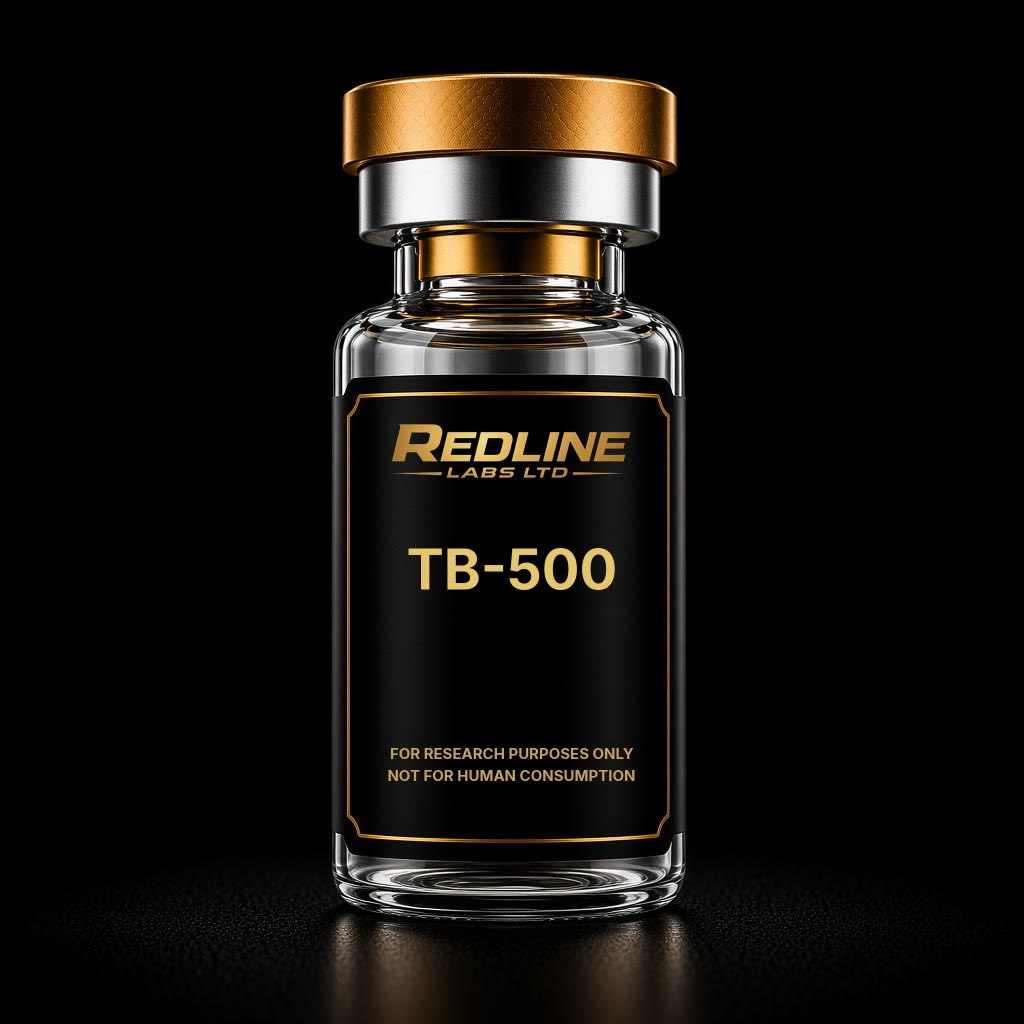
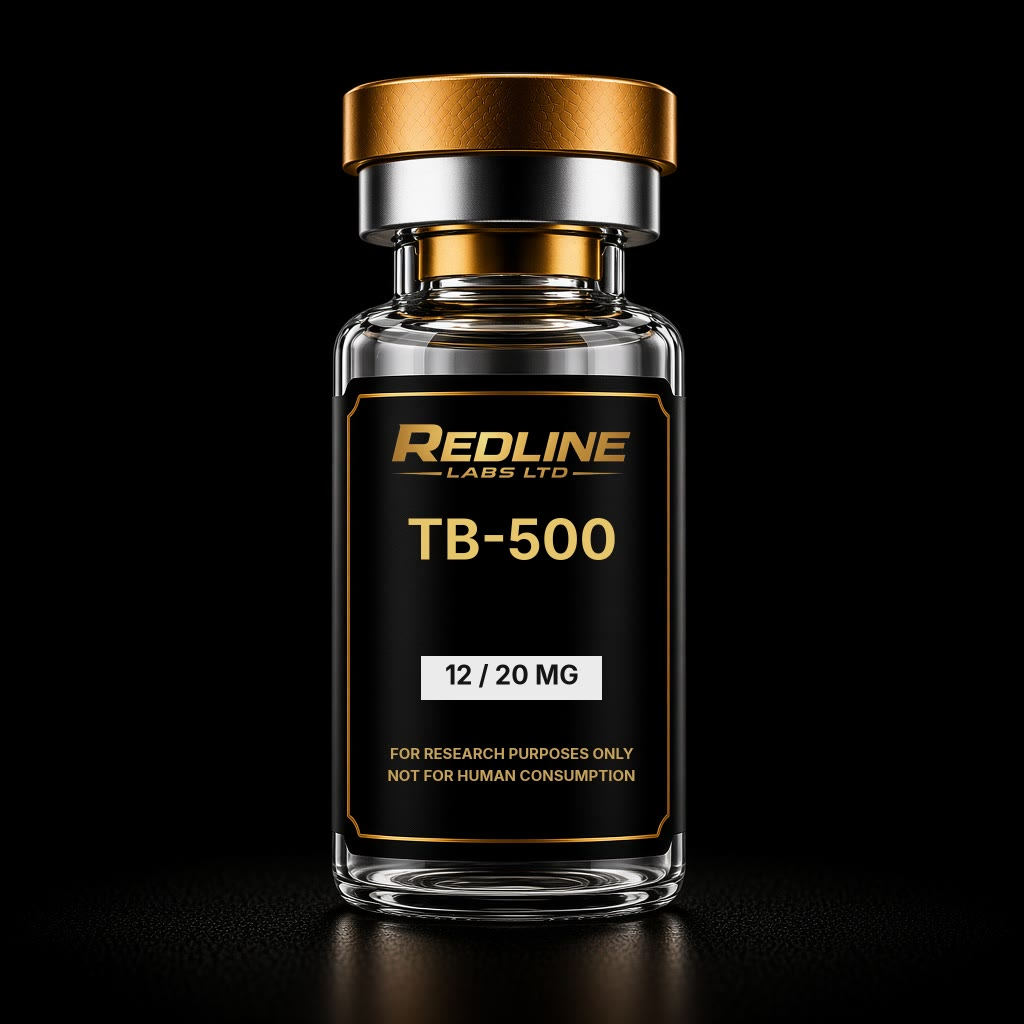
Use the original labelled catalogue photos (#133)
* Replace catalogue photos with named research vials.

Each listing now uses a local black-and-gold vial with the product name on the label, matching the earlier accessory shots. A size is printed only when the listing has a single option, so shared photos do not lock one dose.

* Print milligram strengths on the research vial labels.

Each MG listing now shows every catalogue strength on the white bar, including 10 / 13 / 20 MG where a product has more than one size.

* Use the original labelled catalogue photos for sixteen products.

These listings now use the WordPress product photographs instead of the generated vials. The other fourteen stay on the generated labels because those source files still return 403 and 502.

---------

Changed region(s): [[0.4062, 0.5, 0.625, 0.5938], [0.4062, 0.625, 0.5938, 0.6875]]

diff --git a/src/lib/products.test.ts b/src/lib/products.test.ts
@@ -27,7 +27,7 @@ test("every listing has a SKU and unique slugs", () => {
   }
 });
 
-test("catalogue images are local named vials", () => {
+test("catalogue images are local product photos", () => {
   for (const product of products) {
     assert.equal(product.image, `/products/${product.slug}.jpg`);
     const file = new URL(`../../public${product.image}`, import.meta.url);
